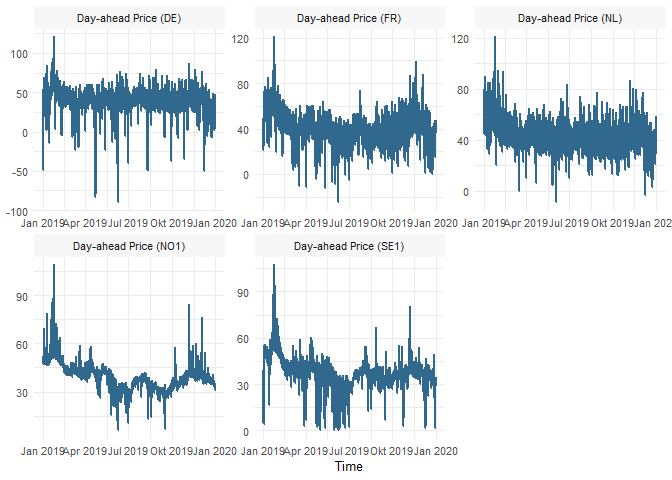
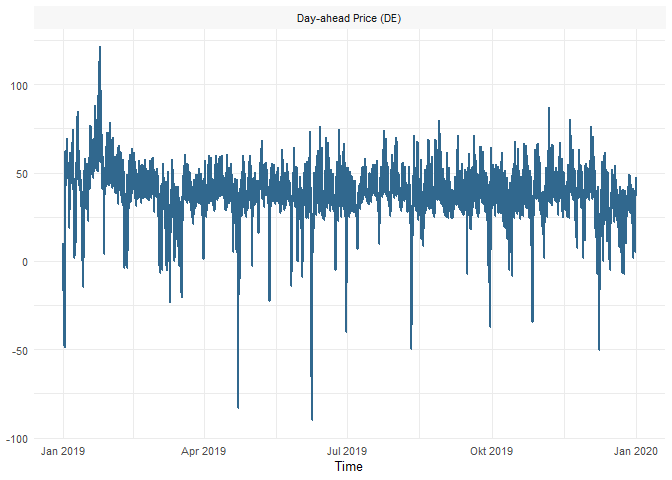
Adjusted README

diff --git a/README.md b/README.md
@@ -7,9 +7,10 @@
 
 <!-- badges: end -->
 
-The package tscv provides a collection of functions and utilities for
-time series cross validation and tidy time series forecasting based on
-the tidyverts (tsibble, fable and fabletools).
+The package tscv provides a collection of functions and tools for time
+series analysis and forecasting as well as time series cross-validation.
+This is mainly a selection of functions that I find useful for research
+in the area of time series forecasting.
 
 ## Installation
 
@@ -23,8 +24,6 @@ devtools::install_github("ahaeusser/tscv")
 
 ## Example
 
-This is a basic example which shows you how to solve a common problem:
-
 ``` r
 # Load relevant packages
 library(tscv)
@@ -33,19 +32,27 @@ library(tsibble)
 library(fable)
 ```
 
-The dataset `elec_price` is a hourly “tsibble” with day-ahead
+The dataset `elec_price` is a hourly ‘tsibble’ with day-ahead
 electricity spot prices from the ENTSO-E Transparency Platform. The
 dataset contains time series data from 2019-01-01 00:00:00 to 2019-12-31
-23:00:00 for five bidding zones within europe. We can use the function
-`clean_data` to prepare the dataset for further usage:
+23:00:00 for five bidding zones in europe. We can use the function
+`clean_data` to prepare the dataset for further usage. The function
+checks whether the input data are a valid tsibble or not (regular spaced
+in time and ordered). Furthermore, implicit missing values are turned
+into explicit missing values (existing missing values are left
+untouched). If the data are provided in wide format, they are gathered
+into long format. For convenience, the index variable is renamed to
+`date_time`, the key variable is renamed to `variable` and the
+measurement variable is renamed to `value`.
 
 ``` r
-data <- elec_price %>% 
+data <- elec_price %>%
+  filter(variable == "Day-ahead Price (DE)") %>%
   clean_data()
 
 data
-#> # A tsibble: 43,800 x 3 [1h] <UTC>
-#> # Key:       variable [5]
+#> # A tsibble: 8,760 x 3 [1h] <UTC>
+#> # Key:       variable [1]
 #>    date_time           variable              value
 #>    <dttm>              <chr>                 <dbl>
 #>  1 2019-01-01 00:00:00 Day-ahead Price (DE)  10.1 
@@ -58,7 +65,7 @@ data
 #>  8 2019-01-01 07:00:00 Day-ahead Price (DE)  -4.93
 #>  9 2019-01-01 08:00:00 Day-ahead Price (DE)  -6.33
 #> 10 2019-01-01 09:00:00 Day-ahead Price (DE)  -4.93
-#> # ... with 43,790 more rows
+#> # ... with 8,750 more rows
 
 plot_ts(data)
 ```
@@ -66,9 +73,16 @@ plot_ts(data)
 <img src="man/figures/README-clean data-1.png" width="100%" />
 
 To prepare the dataset for time series cross-validation, we can use the
-function `split_data`:
+function `split_data`. This function splits the data into training and
+testing (i.e. partitioning into time slices) for time series
+cross-validation. The user can choose between `stretch` and `slide`. The
+first is an expanding window approach, while the latter is a fixed
+window approach. The user can define the window sizes for training and
+testing via `n_init` and `n_ahead`, as well as the step size for
+increments via `n_step`.
 
 ``` r
+
 mode <- "slide"
 n_init <- 2400
 n_step <- 24
@@ -79,12 +93,15 @@ data <- data %>%
     mode = mode,
     n_init = n_init,
     n_step = n_step,
-    n_ahead = n_ahead
-    )
+    n_ahead = n_ahead)
+
+# Fur illutrative purpose, we only use the first five time slices ...
+data <- data %>%
+  filter(slice %in% c(1:5))
 
 data
-#> # A tsibble: 3,223,920 x 8 [1h] <UTC>
-#> # Key:       variable, slice [1,330]
+#> # A tsibble: 12,120 x 8 [1h] <UTC>
+#> # Key:       variable, slice [5]
 #>    date_time           variable          sample slice horizon type  model  value
 #>    <dttm>              <chr>             <chr>  <int>   <int> <chr> <chr>  <dbl>
 #>  1 2019-01-01 00:00:00 Day-ahead Price ~ train      1      NA actu~ <NA>   10.1 
@@ -97,5 +114,118 @@ data
 #>  8 2019-01-01 07:00:00 Day-ahead Price ~ train      1      NA actu~ <NA>   -4.93
 #>  9 2019-01-01 08:00:00 Day-ahead Price ~ train      1      NA actu~ <NA>   -6.33
 #> 10 2019-01-01 09:00:00 Day-ahead Price ~ train      1      NA actu~ <NA>   -4.93
-#> # ... with 3,223,910 more rows
+#> # ... with 12,110 more rows
 ```
+
+``` r
+models <- data %>%
+  filter(sample == "train") %>%
+  model(
+    sNaive = SNAIVE(value),
+    ARIMA = ARIMA(value ~ fourier(period = c(24, 168), K = c(6, 6)) + PDQ(0,0,0)))
+
+fcsts <- models %>%
+  forecast_model(n_ahead = n_ahead)
+```
+
+``` r
+data <- bind_data(
+  data = data,
+  fcsts = fcsts)
+
+data
+#> # A tsibble: 12,360 x 8 [1h] <UTC>
+#> # Key:       variable, slice, model, type [15]
+#>    date_time           variable           sample slice horizon type  model value
+#>    <dttm>              <chr>              <chr>  <int>   <int> <chr> <chr> <dbl>
+#>  1 2019-04-11 00:00:00 Day-ahead Price (~ test       1       1 fcst  ARIMA  35.5
+#>  2 2019-04-11 01:00:00 Day-ahead Price (~ test       1       2 fcst  ARIMA  35.7
+#>  3 2019-04-11 02:00:00 Day-ahead Price (~ test       1       3 fcst  ARIMA  35.6
+#>  4 2019-04-11 03:00:00 Day-ahead Price (~ test       1       4 fcst  ARIMA  36.1
+#>  5 2019-04-11 04:00:00 Day-ahead Price (~ test       1       5 fcst  ARIMA  40.3
+#>  6 2019-04-11 05:00:00 Day-ahead Price (~ test       1       6 fcst  ARIMA  48.0
+#>  7 2019-04-11 06:00:00 Day-ahead Price (~ test       1       7 fcst  ARIMA  54.7
+#>  8 2019-04-11 07:00:00 Day-ahead Price (~ test       1       8 fcst  ARIMA  56.7
+#>  9 2019-04-11 08:00:00 Day-ahead Price (~ test       1       9 fcst  ARIMA  55.4
+#> 10 2019-04-11 09:00:00 Day-ahead Price (~ test       1      10 fcst  ARIMA  53.6
+#> # ... with 12,350 more rows
+```
+
+``` r
+variable <- c("Day-ahead Price (DE)")
+model <- c("sNaive", "ARIMA")
+slice <- c(1)
+
+plot_forecast(
+  data = data,
+  variable = variable,
+  model = model,
+  slice = slice,
+  title = "Day-ahead Price (DE)",
+  subtitle = "Forecast from 2019-04-11 00:00 to 2019-04-11 23:00",
+  caption = "Data: ENTSO-E Transparency Platform",
+  ylab = "[Euro/MWh]")
+```
+
+<img src="man/figures/README-plot_forecast-1.png" width="100%" />
+
+``` r
+# Evaluation
+errors <- data %>%
+  create_errors()
+
+errors
+#> # A tsibble: 480 x 8 [1h] <UTC>
+#> # Key:       variable, slice, model, type [20]
+#>    date_time           variable          sample slice horizon type  model  value
+#>    <dttm>              <chr>             <chr>  <int>   <int> <chr> <chr>  <dbl>
+#>  1 2019-04-11 00:00:00 Day-ahead Price ~ test       1       1 error ARIMA  1.52 
+#>  2 2019-04-11 01:00:00 Day-ahead Price ~ test       1       2 error ARIMA  0.869
+#>  3 2019-04-11 02:00:00 Day-ahead Price ~ test       1       3 error ARIMA  1.50 
+#>  4 2019-04-11 03:00:00 Day-ahead Price ~ test       1       4 error ARIMA  2.75 
+#>  5 2019-04-11 04:00:00 Day-ahead Price ~ test       1       5 error ARIMA  7.61 
+#>  6 2019-04-11 05:00:00 Day-ahead Price ~ test       1       6 error ARIMA  8.37 
+#>  7 2019-04-11 06:00:00 Day-ahead Price ~ test       1       7 error ARIMA  4.57 
+#>  8 2019-04-11 07:00:00 Day-ahead Price ~ test       1       8 error ARIMA -5.01 
+#>  9 2019-04-11 08:00:00 Day-ahead Price ~ test       1       9 error ARIMA -6.86 
+#> 10 2019-04-11 09:00:00 Day-ahead Price ~ test       1      10 error ARIMA -7.62 
+#> # ... with 470 more rows
+
+plot_error_dist(
+  data = errors,
+  variable = variable,
+  model = model)
+```
+
+<img src="man/figures/README-errors-1.png" width="100%" />
+
+``` r
+metrics <- errors %>%
+  error_metrics()
+
+metrics
+#> # A tibble: 336 x 7
+#>    variable             model  dim     num type  metric   value
+#>    <chr>                <chr>  <chr> <int> <chr> <chr>    <dbl>
+#>  1 Day-ahead Price (DE) ARIMA  slice     1 test  ME     -3.49  
+#>  2 Day-ahead Price (DE) ARIMA  slice     2 test  ME     -0.0646
+#>  3 Day-ahead Price (DE) ARIMA  slice     3 test  ME      0.531 
+#>  4 Day-ahead Price (DE) ARIMA  slice     4 test  ME      1.00  
+#>  5 Day-ahead Price (DE) sNaive slice     1 test  ME      2.10  
+#>  6 Day-ahead Price (DE) sNaive slice     2 test  ME      0.397 
+#>  7 Day-ahead Price (DE) sNaive slice     3 test  ME     -4.57  
+#>  8 Day-ahead Price (DE) sNaive slice     4 test  ME     -3.45  
+#>  9 Day-ahead Price (DE) ARIMA  slice     1 test  MAE     5.76  
+#> 10 Day-ahead Price (DE) ARIMA  slice     2 test  MAE     5.35  
+#> # ... with 326 more rows
+
+metric <- c("MAE", "MAPE")
+
+plot_error_metrics(
+  data = metrics,
+  variable = variable,
+  model = model,
+  metric = metric)
+```
+
+<img src="man/figures/README-metrics-1.png" width="100%" />
